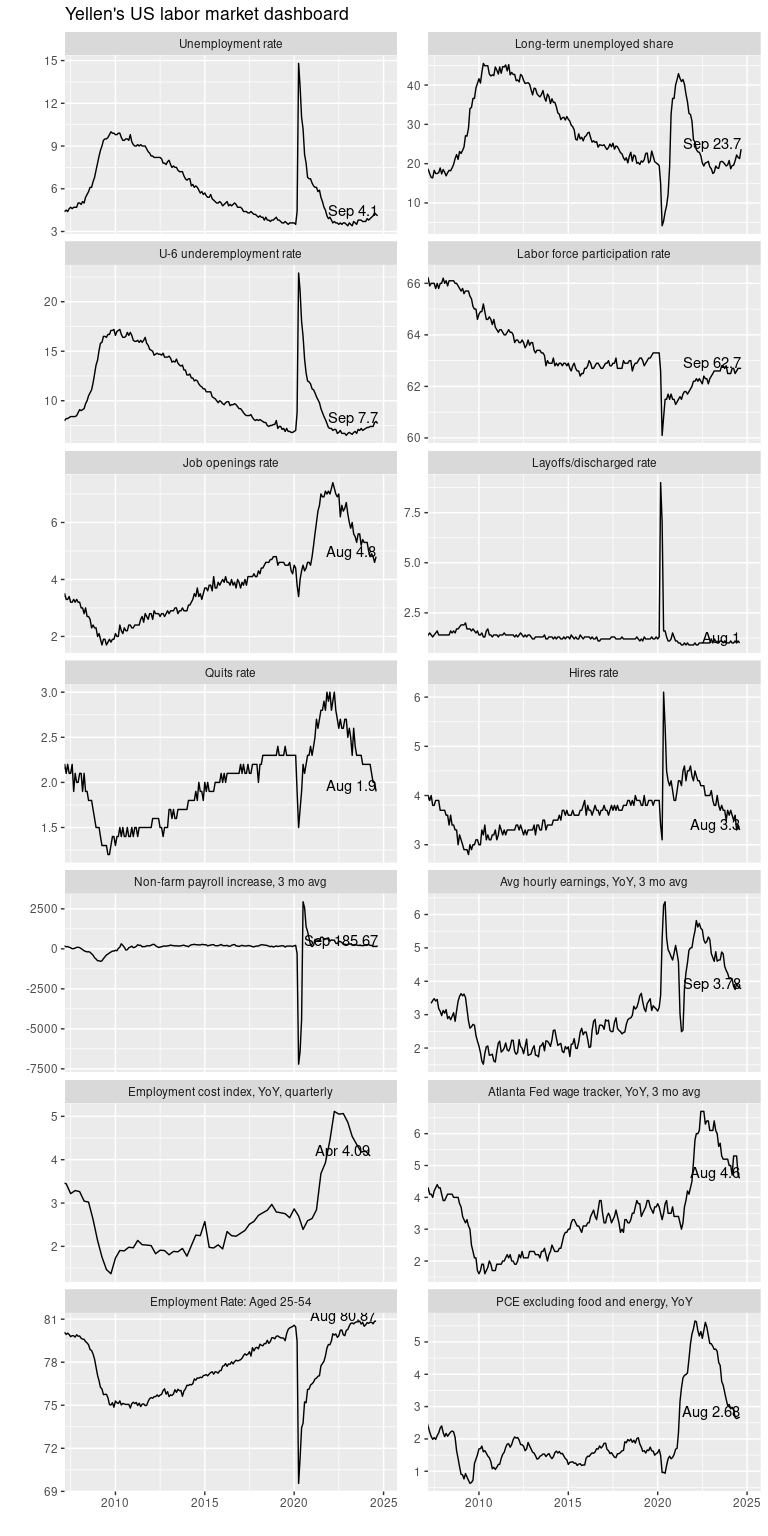
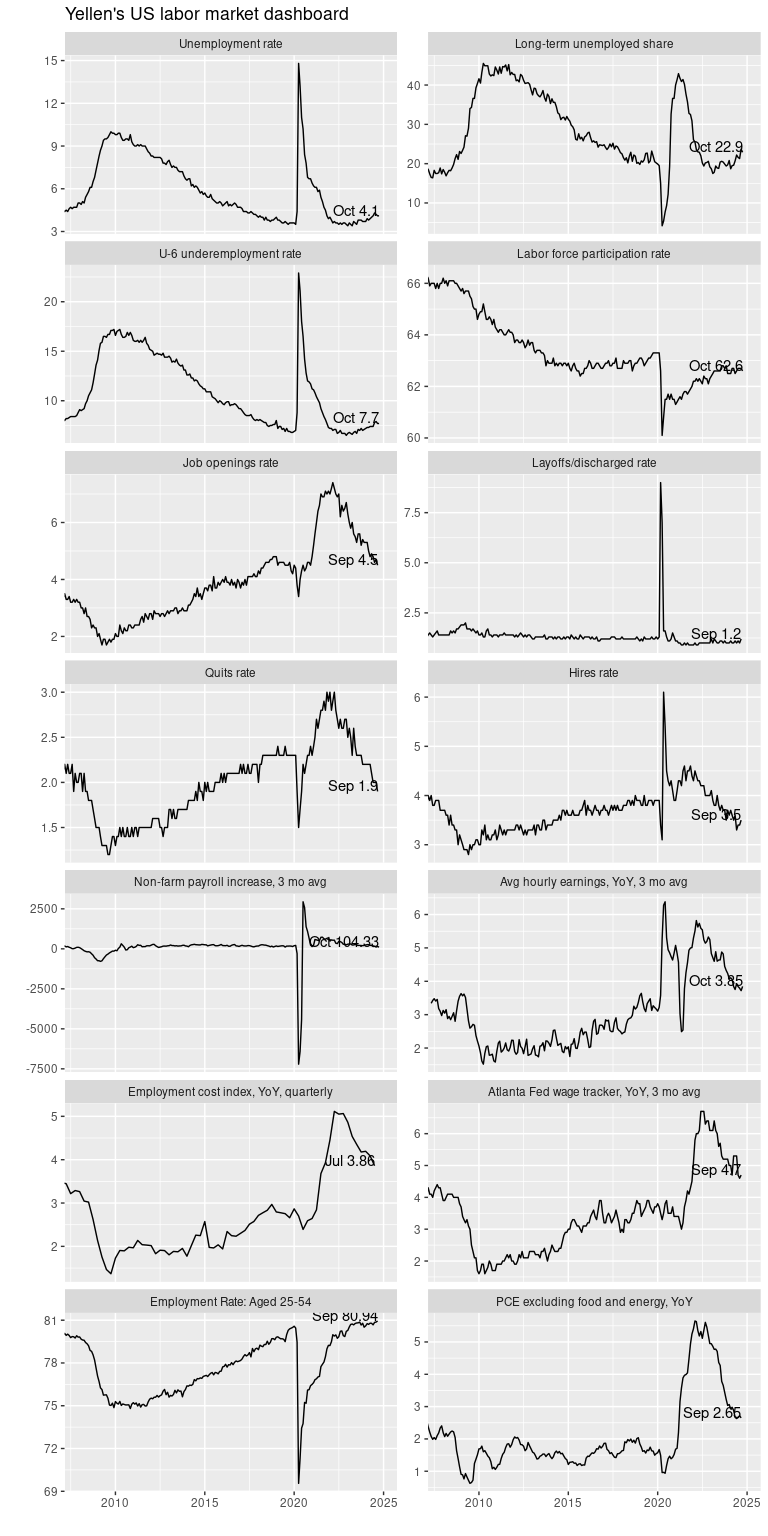
update October 2024 employment

diff --git a/README.md b/README.md
@@ -14,7 +14,7 @@ Mitsuo Shiota
 - [Prepare for the plot](#prepare-for-the-plot)
 - [Dashboard](#dashboard)
 
-Updated: 2024-10-05
+Updated: 2024-11-02
 
 ## Summary
 
